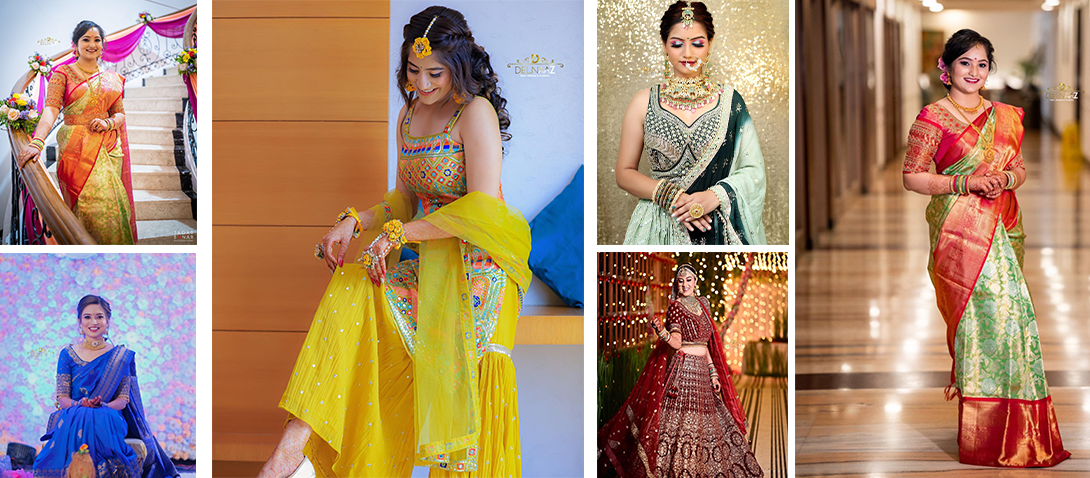
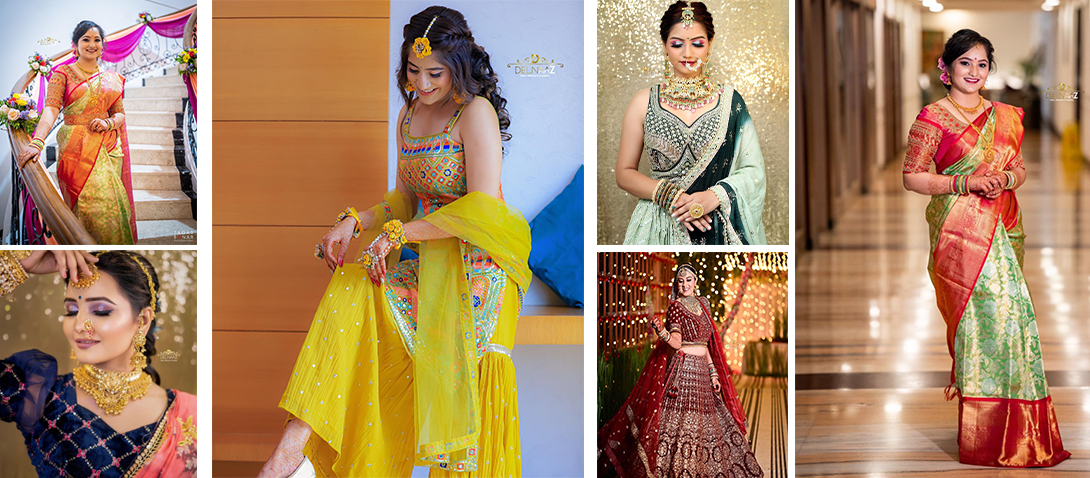
yiriro

Changed region(s): [[0.0, 0.4979, 0.1872, 1.0]]

diff --git a/gallery.html b/gallery.html
@@ -62,14 +62,14 @@
 
 <body>
 
-       <!-- main-header -->
-       <div class="container-fluid">
+    <!-- main-header -->
+    <div class="container-fluid">
         <div class="row  d-flex align-items-center text-center">
             <div class="col-lg-2">
 
                 <div class="">
                     <a href="https://www.facebook.com/people/_delnaaz_/100063602336393/" target="_blank"
-                    class="text-dark sec-icon pl-4 "><i class="fa-brands fa-facebook-f"></i></a>
+                        class="text-dark sec-icon pl-4 "><i class="fa-brands fa-facebook-f"></i></a>
                     <a href="https://www.instagram.com/_delnaaz_/?igshid=YmMyMTA2M2Y%3D" target="_blank"
                         class="text-dark sec-icon pl-4"><i class="fa-brands fa-instagram"></i></a>
 
@@ -79,10 +79,12 @@
             </div>
             <div class="col-lg-4"></div>
             <div class="col-lg-3">
-              <a href="tel:+91 9226181306" class="text-dark float-right sec-mobi"><i class="fa-solid fa-phone sec-icon pr-2"></i> +91 92261-81306 </a>
+                <a href="tel:+91 9226181306" class="text-dark float-right sec-mobi"><i
+                        class="fa-solid fa-phone sec-icon pr-2"></i> +91 92261-81306 </a>
             </div>
             <div class="col-lg-3">
-                <a href="mailto: delnaaz.academy@gmail.com" class="text-dark sec-mobi"><i class="fa-regular fa-envelope sec-icon  pr-2"></i>delnaaz.academy@gmail.com </a>
+                <a href="mailto: delnaaz.academy@gmail.com" class="text-dark sec-mobi"><i
+                        class="fa-regular fa-envelope sec-icon  pr-2"></i>delnaaz.academy@gmail.com </a>
             </div>
         </div>
     </div>
@@ -243,6 +245,74 @@
                         <img src="images/g18.jpg" alt="">
                     </a>
                 </div>
+                <!--  -->
+                <div class="col-sm-6 col-md-4">
+                    <a class="lightbox" href="images/ni1.jpeg">
+                        <img src="images/ni1.jpeg" alt="">
+                    </a>
+                </div>
+                <div class="col-sm-6 col-md-4">
+                    <a class="lightbox" href="images/ni2.jpeg">
+                        <img src="images/ni2.jpeg" alt="">
+                    </a>
+                </div>
+                <div class="col-sm-6 col-md-4">
+                    <a class="lightbox" href="images/ni3.jpeg">
+                        <img src="images/ni3.jpeg" alt="">
+                    </a>
+                </div>
+                <div class="col-sm-6 col-md-4">
+                    <a class="lightbox" href="images/ni4.jpeg">
+                        <img src="images/ni4.jpeg" alt="">
+                    </a>
+                </div>
+                <div class="col-sm-6 col-md-4">
+                    <a class="lightbox" href="images/ni5.jpeg">
+                        <img src="images/ni5.jpeg" alt="">
+                    </a>
+                </div>
+                <div class="col-sm-6 col-md-4">
+                    <a class="lightbox" href="images/ni6.jpeg">
+                        <img src="images/ni6.jpeg" alt="">
+                    </a>
+                </div>
+                <div class="col-sm-6 col-md-4">
+                    <a class="lightbox" href="images/ni7.jpeg">
+                        <img src="images/ni7.jpeg" alt="">
+                    </a>
+                </div>
+                <div class="col-sm-6 col-md-4">
+                    <a class="lightbox" href="images/ni8.jpeg">
+                        <img src="images/ni8.jpeg" alt="">
+                    </a>
+                </div>
+                <div class="col-sm-6 col-md-4">
+                    <a class="lightbox" href="images/ni9.jpeg">
+                        <img src="images/ni9.jpeg" alt="">
+                    </a>
+                </div>
+
+                <div class="col-sm-6 col-md-4">
+                    <a class="lightbox" href="images/ni10.jpeg">
+                        <img src="images/ni10.jpeg" alt="">
+                    </a>
+                </div>
+
+
+                <!--  -->
+
+
+
+
+
+
+
+
+
+
+
+
+
                 <div class="col-sm-6 col-md-4">
                     <a class="lightbox" href="images/g19.jpg">
                         <img src="images/g19.jpg" alt="">
@@ -261,7 +331,7 @@
     <!-- images-start -->
 
 
-   
+
     <!-- footer-start -->
     <footer>
         <div class="container-fluid sec-bg-52">
@@ -289,7 +359,7 @@
                             width="70%" height="150" style="border:0;" allowfullscreen="" loading="lazy"
                             referrerpolicy="no-referrer-when-downgrade"></iframe>
                         <p class=" pt-2 pb-0 m-0"> <i class="fa-solid fa-phone text-light"></i> <a
-                                href="tel:+91  73811-13111" class="text-light ">+91  73811-13111</a></p>
+                                href="tel:+91  73811-13111" class="text-light ">+91 73811-13111</a></p>
                         <p class=""> <i class="fa-solid fa-envelope text-light"></i> <a
                                 href="mailto: delnaaz.academy@gmail.com"
                                 class="text-light ">delnaaz.academy@gmail.com</a></p>

diff --git a/franchise.html b/franchise.html
@@ -125,7 +125,7 @@
     <!-- header- end -->
 
     <!-- Salon franchise in India -->
-    <div class="container-fluid sec-bg-3 p-5   sec-abo-p">
+    <div class="container-fluid sec-bg-3 p-5    sec-abo-p">
         <div class="container">
             <div class="row pt-5 reverse-section-mobile">
                 <div class="col-lg-6 pt-5">
